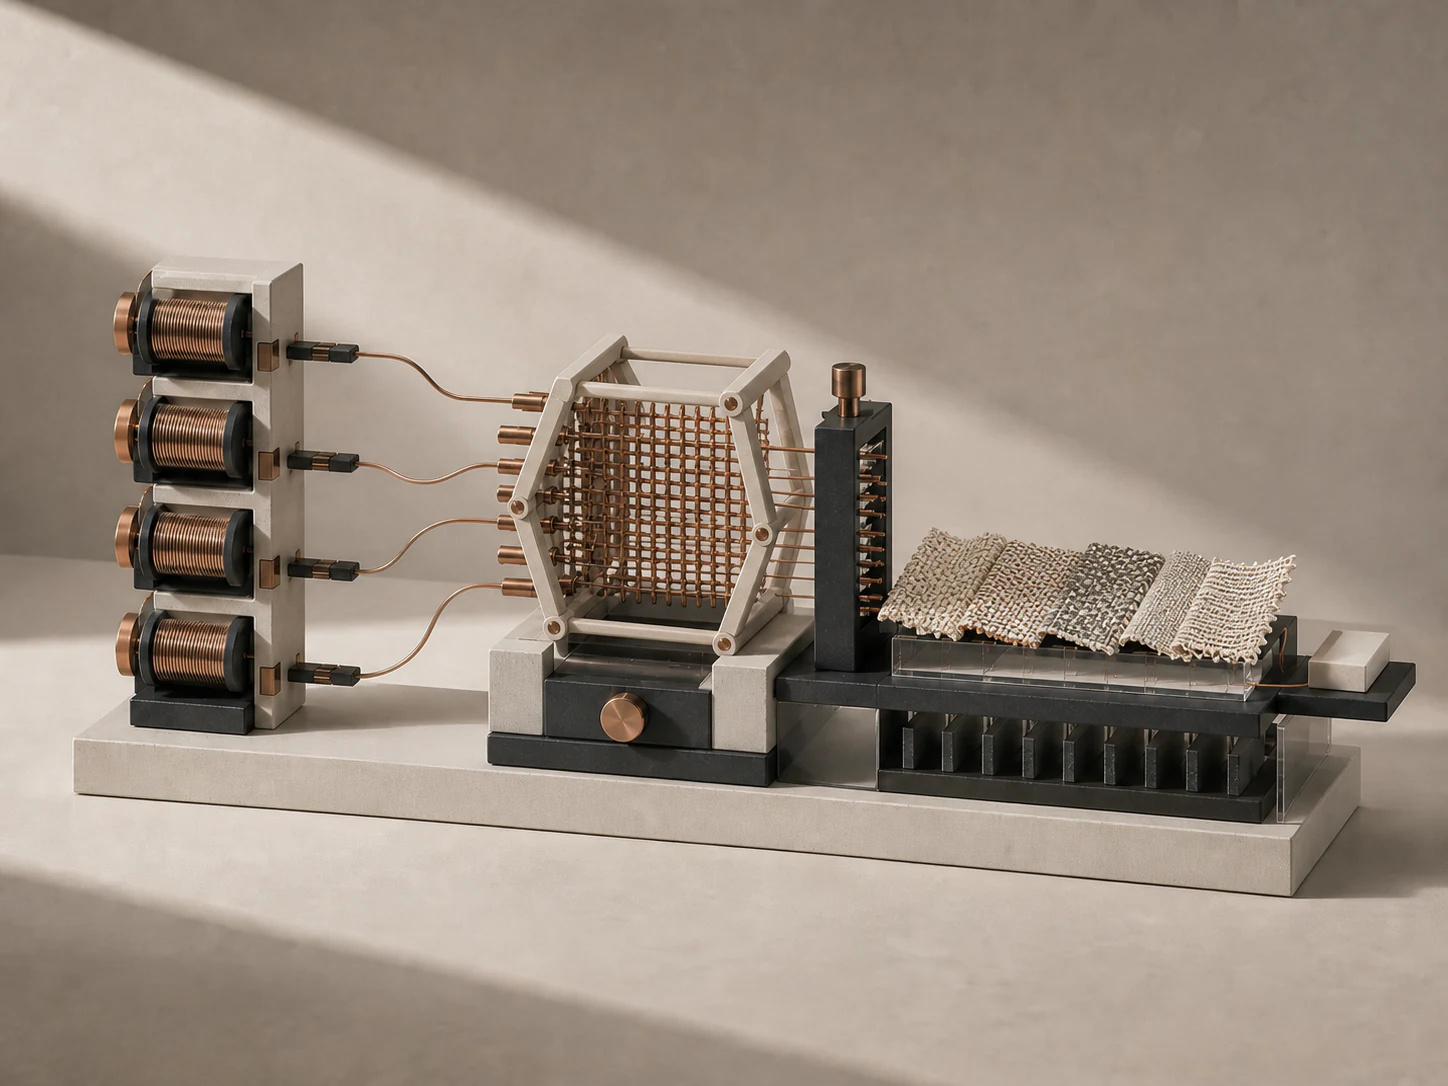
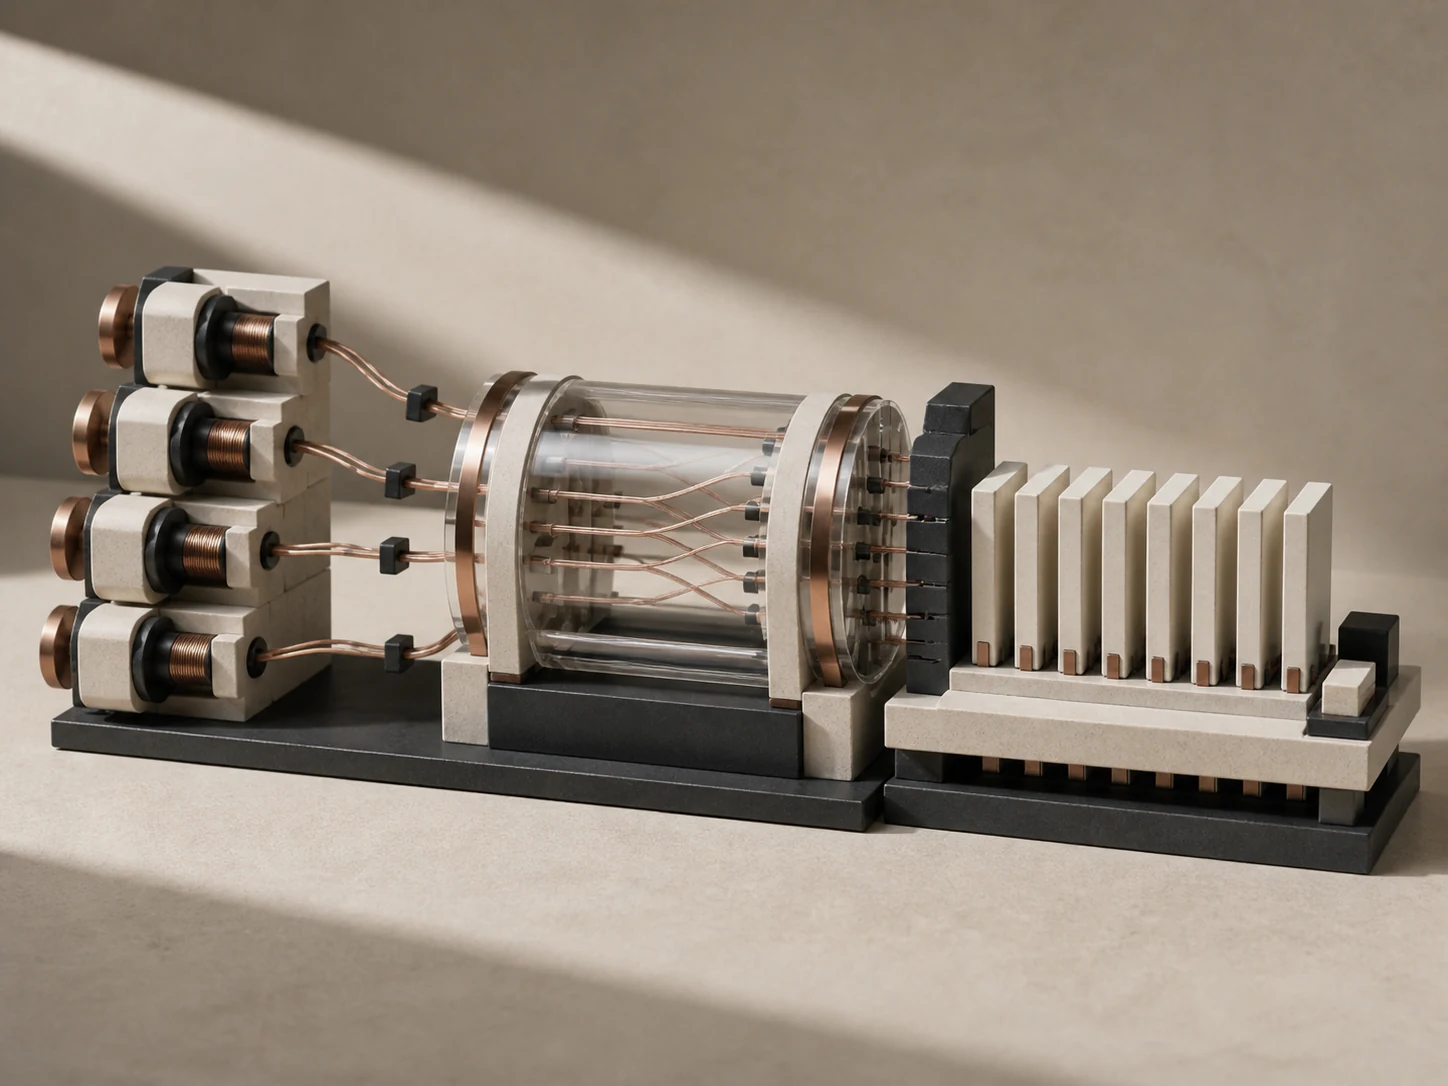
fix: restore preferred project artwork

diff --git a/index.html b/index.html
@@ -541,7 +541,7 @@
                     width="1448"
                     height="1086"
                     loading="lazy"
-                    alt="Four signal coils feeding an open copper-mesh weaving core and textured recommendation swatches"
+                    alt="Four retrieval spools feeding an auditable ranking drum and constrained recommendation slate"
                   />
                 </div>
                 <div class="project-body">
@@ -577,7 +577,7 @@
                     width="1448"
                     height="1086"
                     loading="lazy"
-                    alt="Seven irregular samples passing beneath an angular optical prism toward a frozen holdout and deployment gate"
+                    alt="Seven specimen tokens arranged around an explainable optical inspection and deployment gate"
                   />
                 </div>
                 <div class="project-body">
@@ -613,7 +613,7 @@
                     width="1448"
                     height="1086"
                     loading="lazy"
-                    alt="Stone fragments moving through open evidence stands and an ablation gate into a reconstructed arch"
+                    alt="Development fragments passing through evidence frames and an ablation gate into reusable rule cards"
                   />
                 </div>
                 <div class="project-body">
@@ -649,7 +649,7 @@
                     width="1448"
                     height="1086"
                     loading="lazy"
-                    alt="Megumi chibi desktop pet above a screen with an angular eight-pose animation track"
+                    alt="Handcrafted Megumi chibi desktop pet beside a mechanical animation-state dial"
                   />
                 </div>
                 <div class="project-body">
